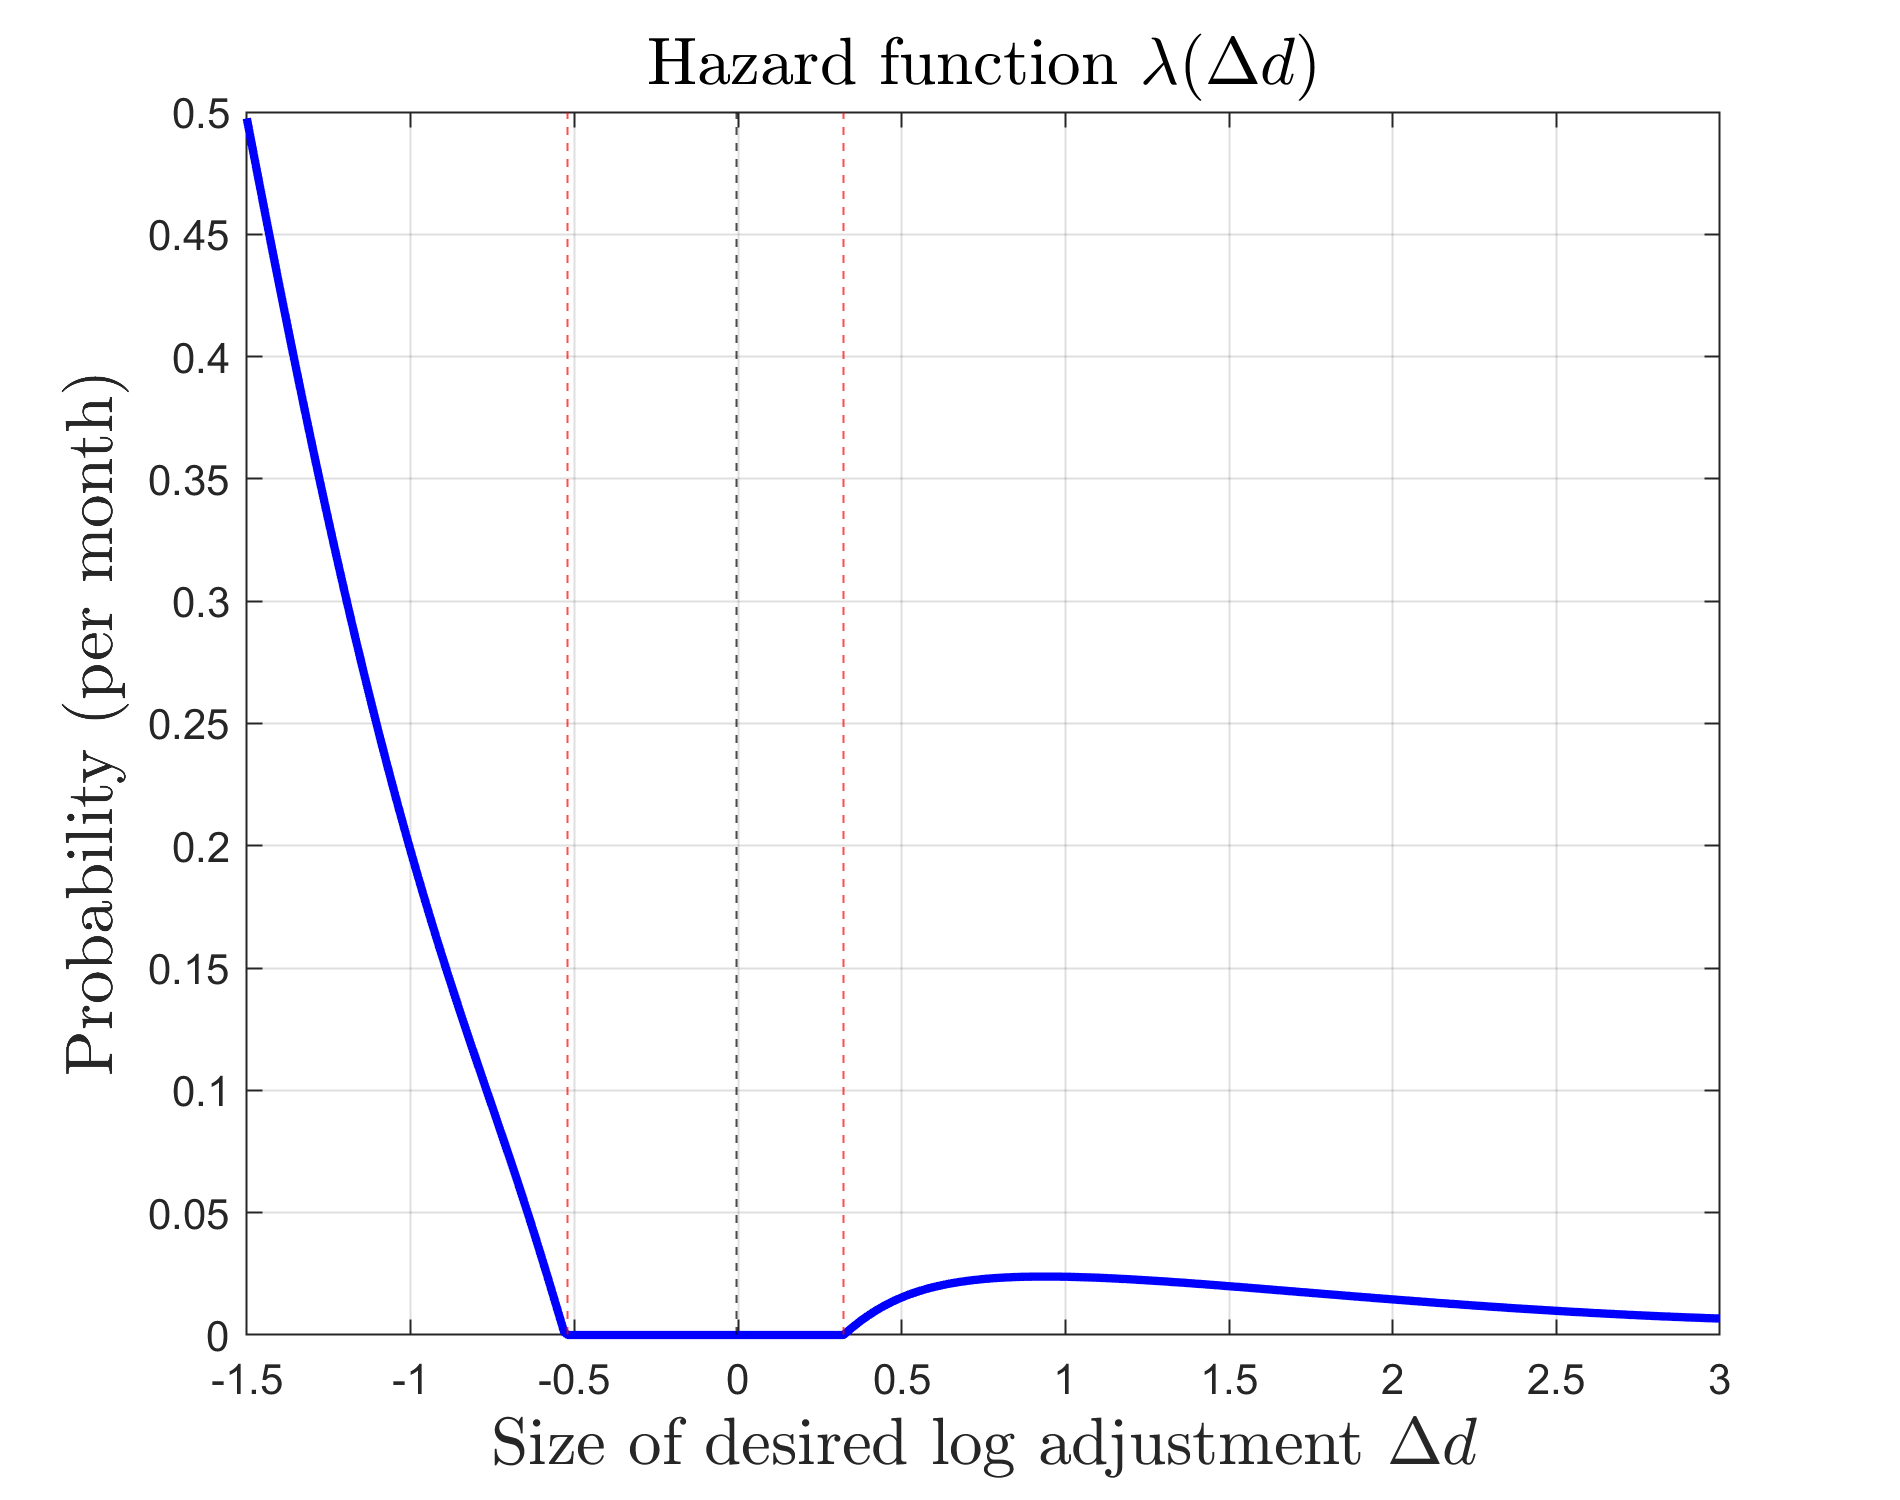
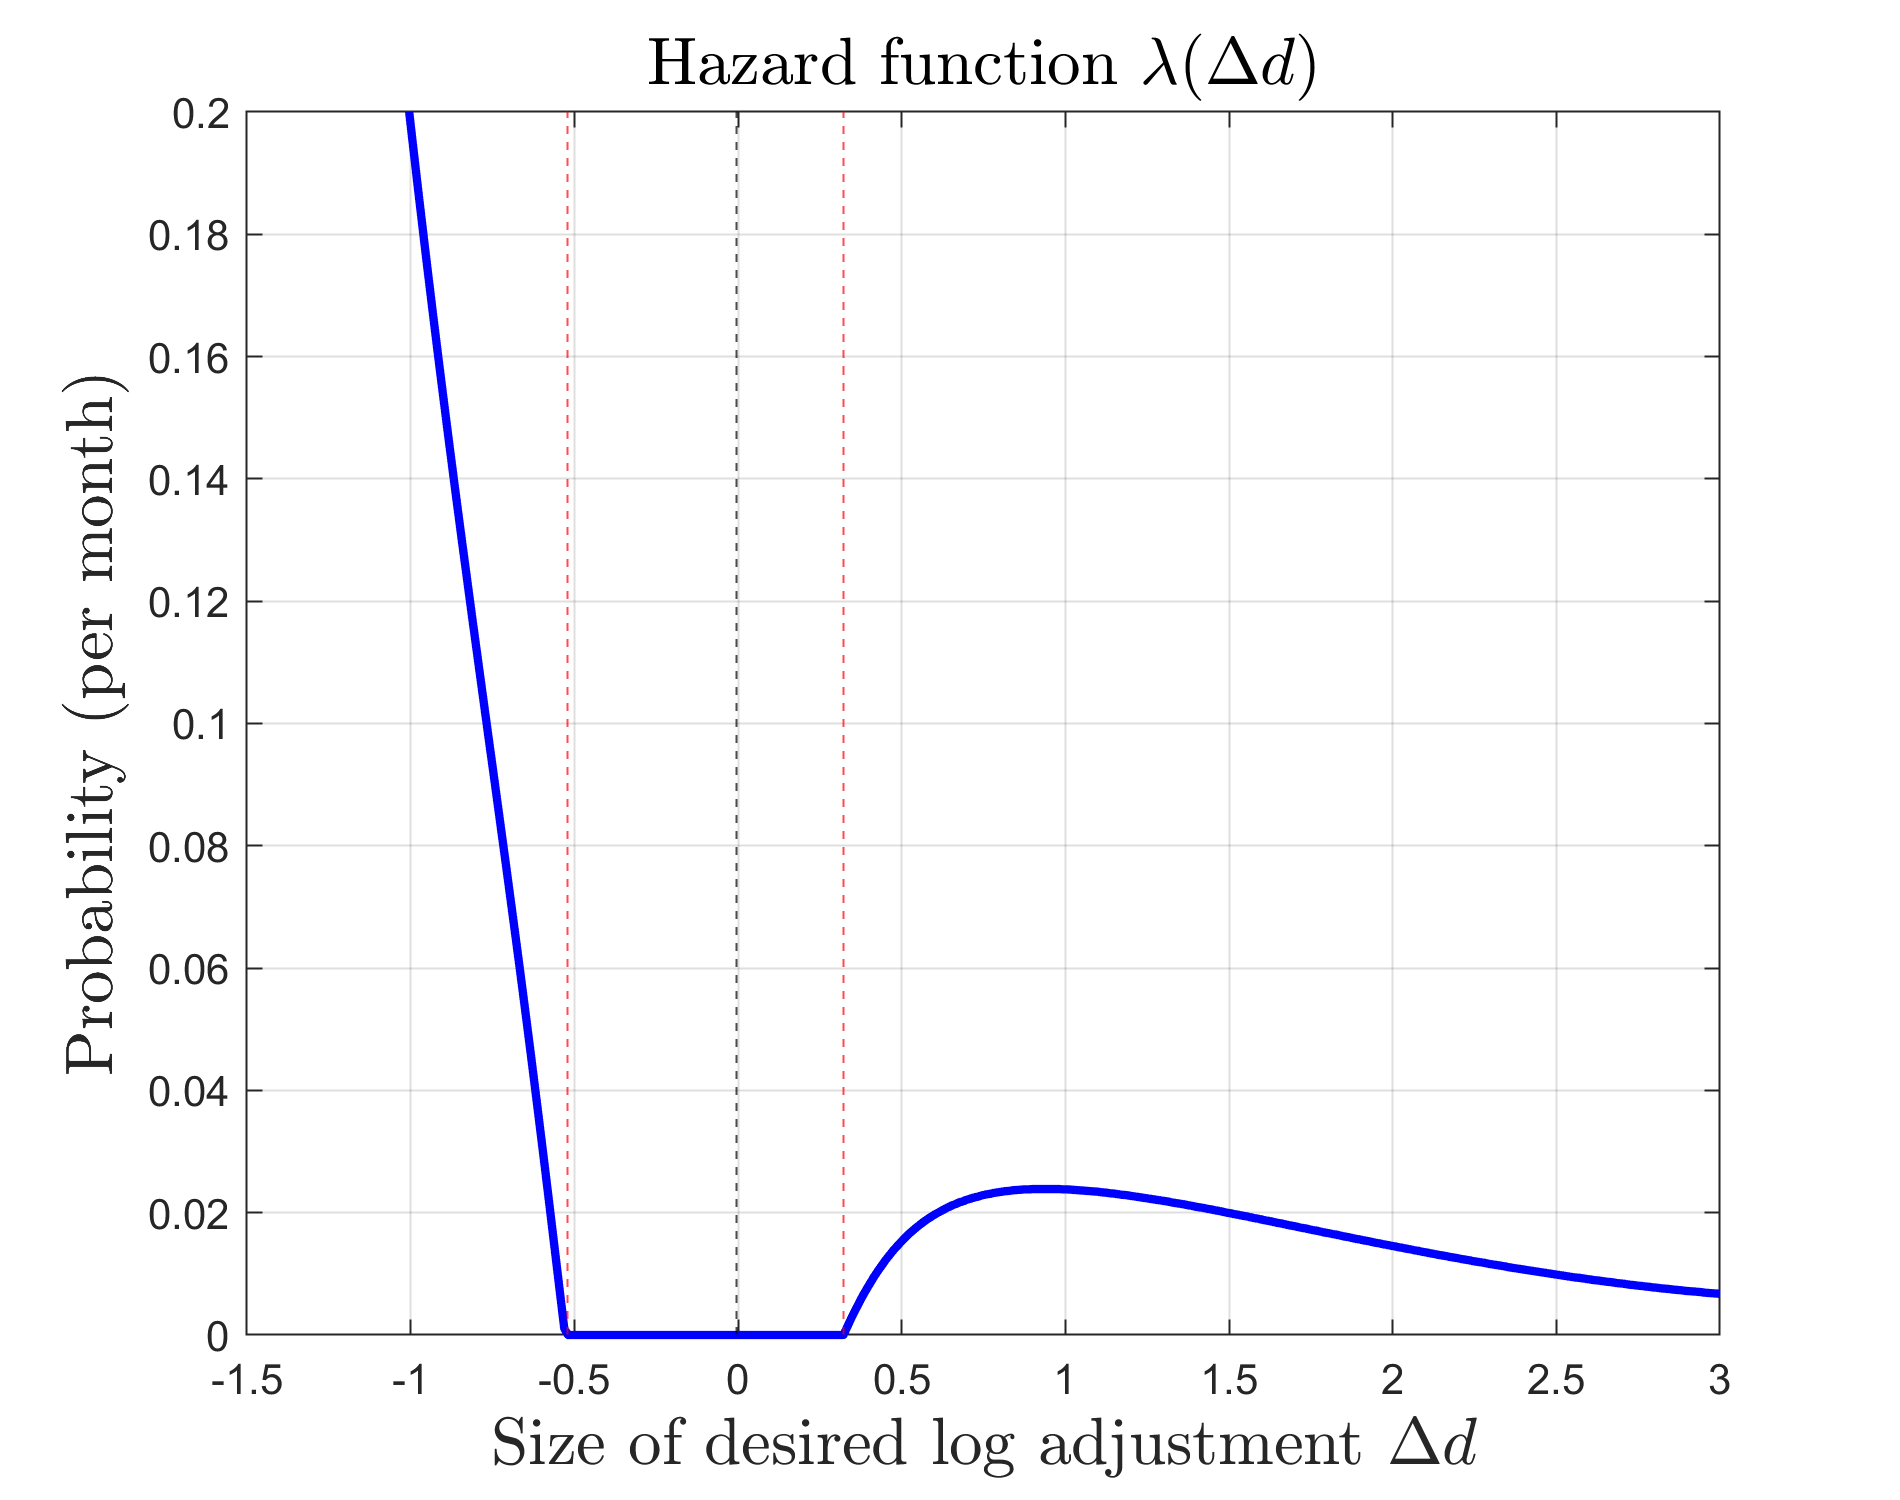
new figures

diff --git a/SummerPaper2025/main_data.m b/SummerPaper2025/main_data.m
@@ -110,10 +110,10 @@ end
 %%
 numBins =40;
 fig = figure(1);
-histogram(sizeAdjAllYears,numBins,'BinEdges',[linspace(-1.5,-thr,numBins/2) linspace(thr,3,numBins/2)],'Normalization','probability');
+histogram(sizeAdjAllYears,numBins,'BinEdges',[linspace(-1.5,-thr,numBins/2) linspace(thr,3,numBins/2)],'Normalization','pdf');
 title('Distribution of size of housing adjustment (PSID 1999-2023)',FontSize=16,Interpreter='latex')
 xlabel('Size of Log Adjustment',FontSize=16,Interpreter='latex')
-ylabel('Probability',FontSize=16,Interpreter='latex')
+ylabel('Density',FontSize=16,Interpreter='latex')
 
 set(fig, 'PaperUnits', 'inches');
 set(fig, 'PaperPosition', [0 0 9.5/1.5 7.5/1.5]);  % 16:9 format

diff --git a/SummerPaper2025/main_pe_backup.m b/SummerPaper2025/main_pe_backup.m
@@ -394,6 +394,7 @@ g_fun = @(x) log(exp(x)-propCost+homeEquity) - log(exp(xgrid(ind_max))+homeEquit
 fig =figure(3);
 plot(g_fun(xgrid),1-exp(-adj_hazard/3),'-b','LineWidth',2);hold on;grid on
 xlim([-1.5 3])
+ylim([0 0.2])
 xline(g_fun(xlow),'--r')
 xline(g_fun(xhigh),'--r')
 xline(g_fun(xhat),'--k')
